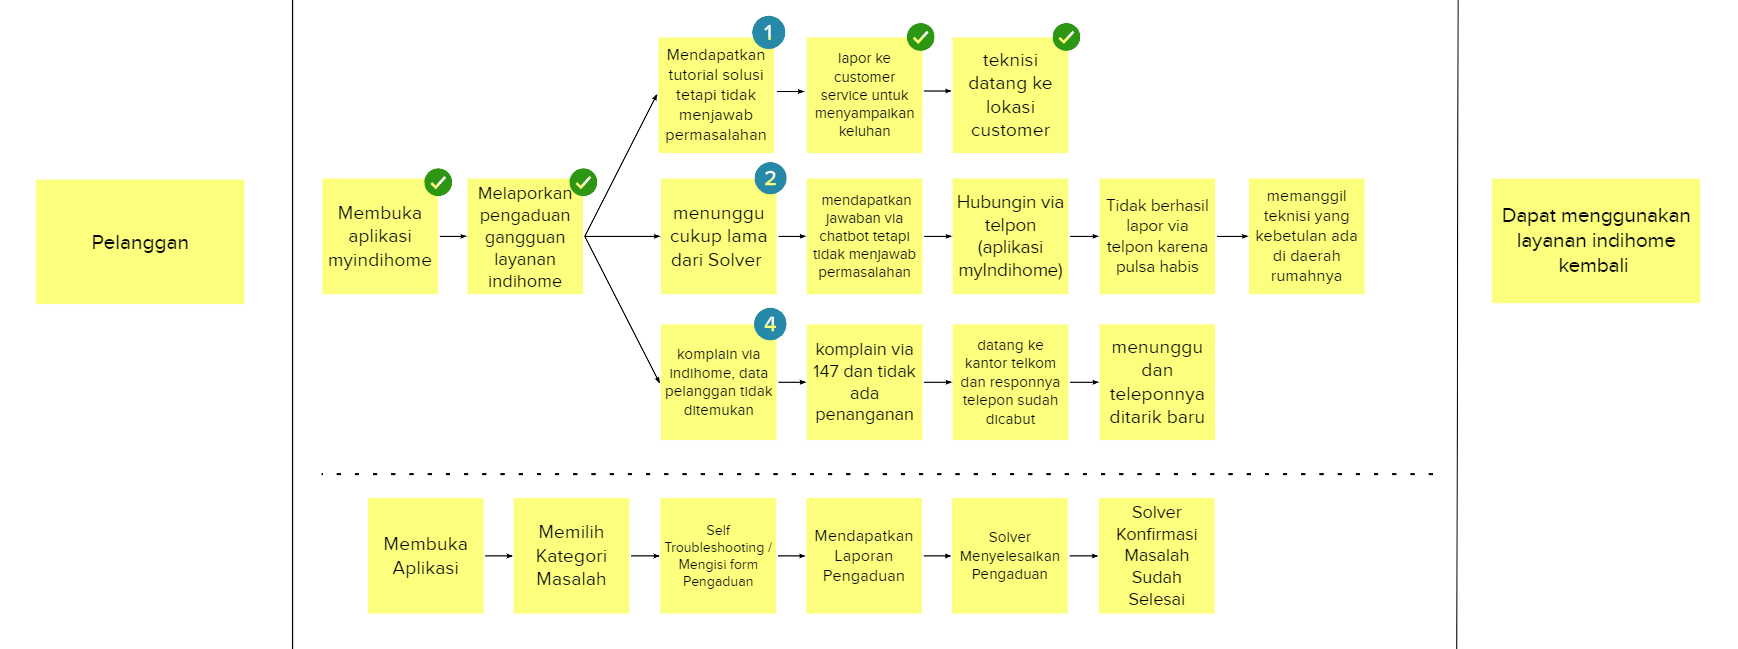
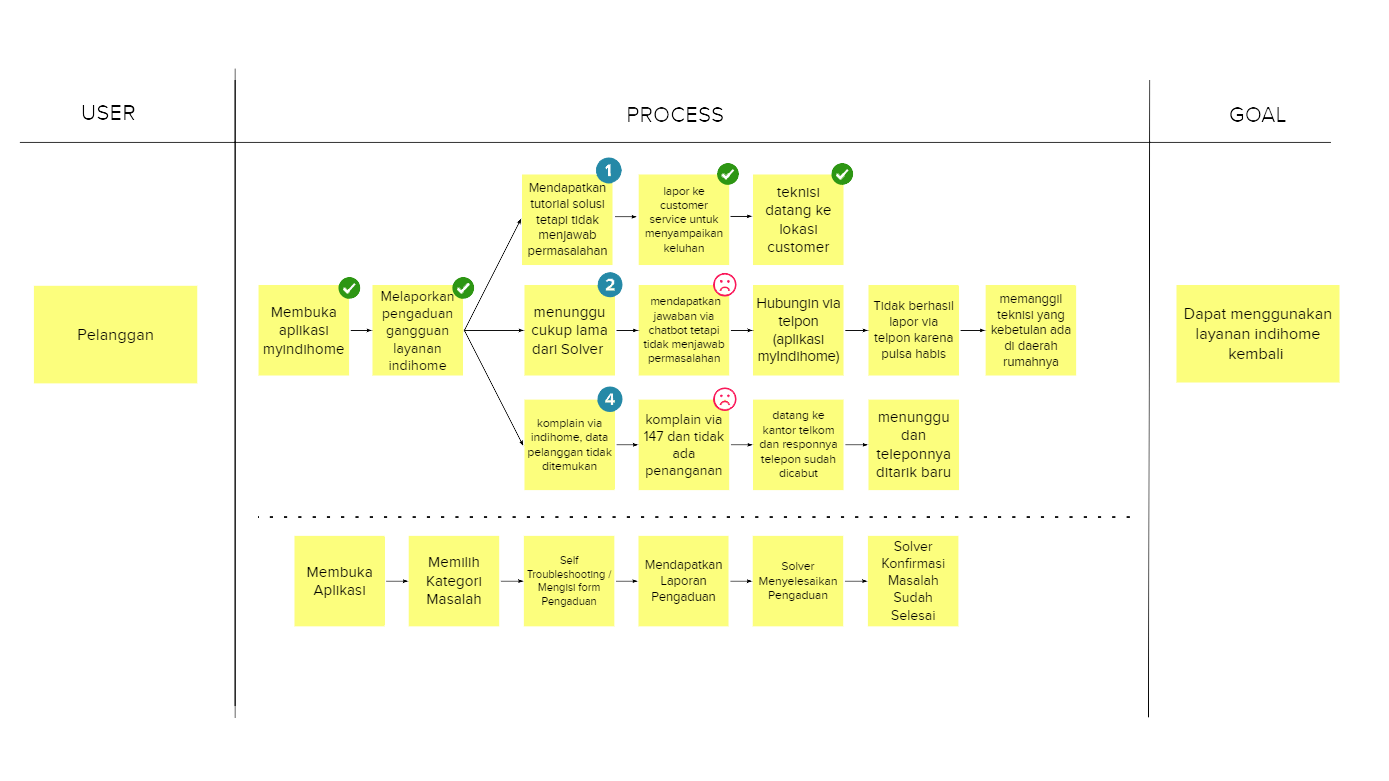
fix

diff --git a/index.html b/index.html
@@ -106,7 +106,7 @@
               <div class="fs-3 mb-3">Emphatize : Understanding the human needs involved.</div>
               <p>We should gain an empathetic understanding of the problem we’re trying to solve, through user research. Empathy is crucial to a human-centered design process such as design thinking because it allows you to set aside your own assumptions about the world and gain real insight into users and their needs.</p>
               <div class="d-none d-sm-inline mt-4">
-                <button class="btn btn-outline-light me-2"><i class="material-icons me-2">account_tree</i>Existing Journey</button>
+                <button class="btn btn-outline-light me-2" data-bs-toggle="modal" data-bs-target="#existing"><i class="material-icons me-2">account_tree</i>Existing Journey</button>
               </div>
               <div class="d-none d-sm-inline">
                 <a href="./assets/doc/1-researchplan.pdf" target="_blank" class="btn btn-outline-light me-2"><i class="material-icons me-2">description</i>Research Plan</a>
@@ -144,7 +144,7 @@
         <div class="bg-light border border-top-0 rounded-bottom px-lg-5 px-4 mb-4 py-3">
           <div class="row">
             <div class="col-md-6 col-sm-12">
-              <button class="btn btn-outline-primary" data-bs-toggle="modal" data-bs-target="#insight1"><i class="material-icons me-2">info</i>Insight</button>
+              <button class="btn btn-outline-secondary" data-bs-toggle="modal" data-bs-target="#insight1"><i class="material-icons me-2">info</i>Insight</button>
             </div>
           </div>
         </div>
@@ -195,7 +195,7 @@
           <div class="col-md-3 offset-md-2 col-12">
             <div class="card bg-light text-dark shadow-sm mb-md-0 mb-3">
               <div class="card-body">
-                <img class="img-fluid w-100 pt-2" src="./assets/img/content/3-crazy8-c.png">
+                <img class="img-fluid w-100" src="./assets/img/content/3-crazy8-c.png">
                 <hr>
                 <div class="d-flex justify-content-between">
                   <div class="small my-auto">Crazy 8's</div>
@@ -425,6 +425,25 @@
 </body>
 
 <!-- Modal -->
+<div class="modal fade" id="existing" tabindex="-1" aria-labelledby="existingLabel" aria-hidden="true">
+  <div class="modal-dialog modal-fullscreen">
+    <div class="modal-content">
+      <div class="modal-header">
+        <h5 class="modal-title" id="existingLabel"><span class="fw-normal">Stages 1 :</span> Born from Emphatize</h5>
+        <button class="btn btn-outline-dark" data-bs-dismiss="modal"><i class="material-icons cur-pointer">close</i></button>
+      </div>
+      <div class="modal-body d-flex">
+        <div class="m-auto">
+          <img class="img-fluid" style="max-height: 70vh;" src="./assets/img/content/1-existing.PNG">
+        </div>
+      </div>
+      <div class="modal-footer">
+        <button type="button" class="btn btn-outline-dark" data-bs-dismiss="modal"><i class="material-icons me-2">fullscreen_exit</i>Exit Fullscreen</button>
+      </div>
+    </div>
+  </div>
+</div>
+
 <div class="modal fade" id="definest1" tabindex="-1" aria-labelledby="definest1Label" aria-hidden="true">
   <div class="modal-dialog modal-fullscreen">
     <div class="modal-content">
@@ -448,7 +467,7 @@
   <div class="modal-dialog modal-fullscreen">
     <div class="modal-content">
       <div class="modal-header">
-        <h5 class="modal-title" id="definest2Label"><span class="fw-normal">Stages 2 :</span> How Might We ?</h5>
+        <h5 class="modal-title" id="definest2Label"><span class="fw-normal">Stages 2 :</span> How Might We</h5>
         <button class="btn btn-outline-dark" data-bs-dismiss="modal"><i class="material-icons cur-pointer">close</i></button>
       </div>
       <div class="modal-body d-flex">
